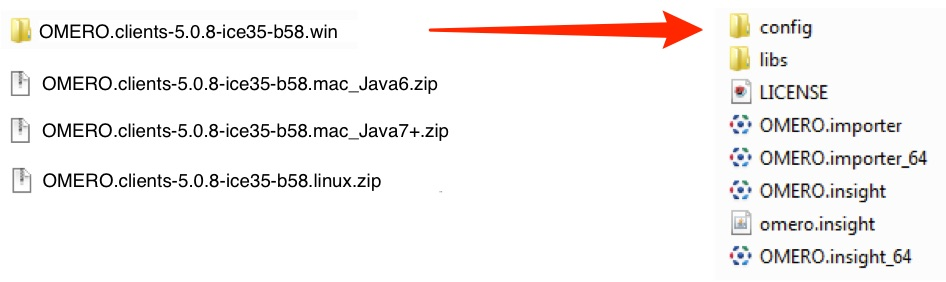
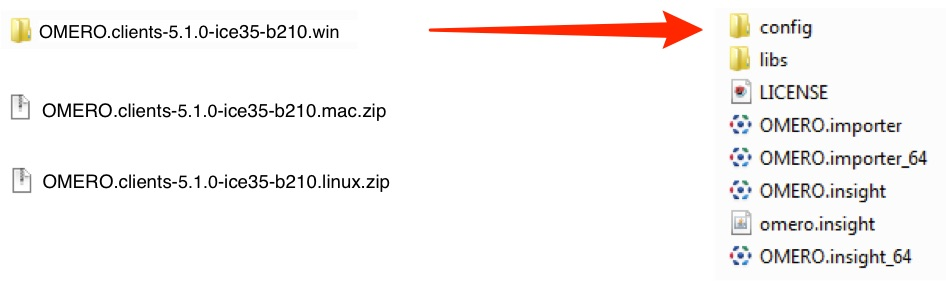
Updating version numbers to 5.1 and 4.4 (eliminating point releases)

Changed region(s): [[0.0, 0.2553, 0.4905, 0.5106], [0.0307, 0.5957, 0.4292, 0.6809], [0.0307, 0.0851, 0.3679, 0.1418]]

diff --git a/_layouts/default.html b/_layouts/default.html
@@ -7,9 +7,9 @@ navigation:
       name: Quickstart User Guides
       open: yes
       children:
-          - name: Getting Started v. 5.0.8
+          - name: Getting Started v. 5.1
             link: getting-started-5.html
-          - name: Getting Started v. 4.4.12
+          - name: Getting Started v. 4.4
             link: getting-started-4.html
           - name: Using ImageJ with OMERO
             link: imagej.html
@@ -29,7 +29,7 @@ navigation:
       name: OMERO.insight
       open: no
       children:
-          - name: Importing Data v. 5.0.8
+          - name: Importing Data v. 5.1.0
             link: importing-data-5.html
           - name: Importing Data v. 4.4.12
             link: importing-data-4.html

diff --git a/getting-started-4.html b/getting-started-4.html
@@ -1,10 +1,10 @@
 ---
 layout: default
-title: Getting Started with OMERO.insight v. 4.4.12
+title: Getting Started with OMERO.insight v. 4.4
 menu-id: l1-quickstart
 pdfs:
     - getting-started-4.pdf
-description: Using OMERO.insight Version 4.4.12 to upload, view and download data from any personal computer.
+description: Using OMERO.insight Version 4.4 to upload, view and download data from any personal computer.
 ---
 <div class="page-navigation">
 <h2>Contents</h2>

diff --git a/getting-started-5.html b/getting-started-5.html
@@ -1,10 +1,10 @@
 ---
 layout: default
-title: Getting Started with OMERO.insight v. 5.0.8
+title: Getting Started with OMERO.insight v. 5.1
 menu-id: l1-quickstart
 pdfs:
     - getting-started-5.pdf
-description: Using OMERO.insight Version 5.0.8 to upload, view and download data from any personal computer.
+description: Using OMERO.insight Version 5.1 to upload, view and download data from any personal computer.
 ---
 <div class="page-navigation">
 <h2>Contents</h2>

diff --git a/importing-data-4.html b/importing-data-4.html
@@ -1,10 +1,10 @@
 ---
 layout: default
-title: Importing Data with OMERO.insight v. 4.4.12
+title: Importing Data with OMERO.insight v. 4.4
 menu-id: l1-insight
 pdfs:
     - importing-data-4.pdf
-description: Using OMERO.insight Version 4.4.12 to import image data onto the OMERO server.
+description: Using OMERO.insight Version 4.4 to import image data onto the OMERO server.
 ---
 <p>Using  OMERO.insight to import image data onto the OMERO server.</p>
 

diff --git a/importing-data-5.html b/importing-data-5.html
@@ -1,10 +1,10 @@
 ---
 layout: default
-title: Importing Data with OMERO.insight v. 5.0.8
+title: Importing Data with OMERO.insight v. 5.1
 menu-id: l1-insight
 pdfs:
     - importing-data-5.pdf
-description: Using OMERO.insight Version 5.0.8 to import image data onto the OMERO server.
+description: Using OMERO.insight Version 5.1 to import image data onto the OMERO server.
 ---
 <p>Using  OMERO.insight to import image data onto the OMERO server.</p>
 
